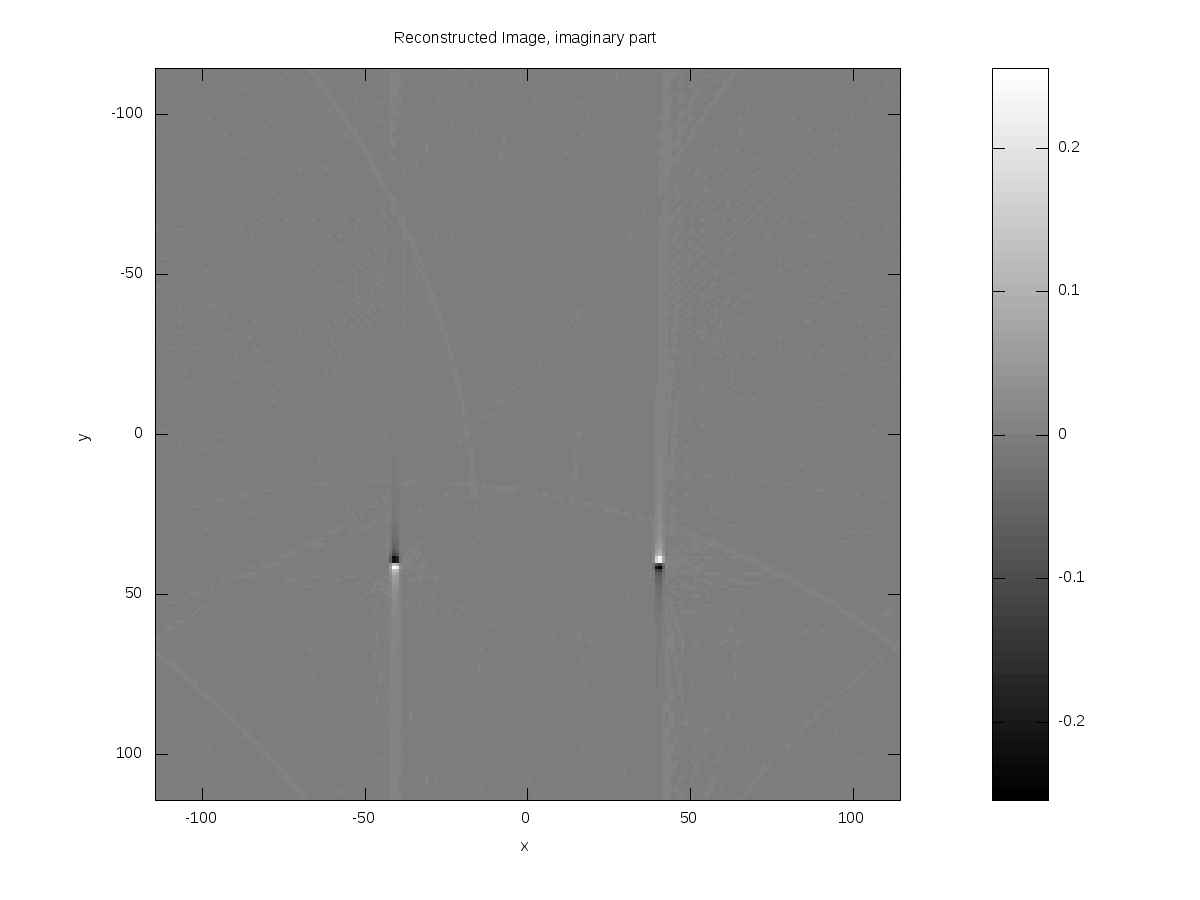
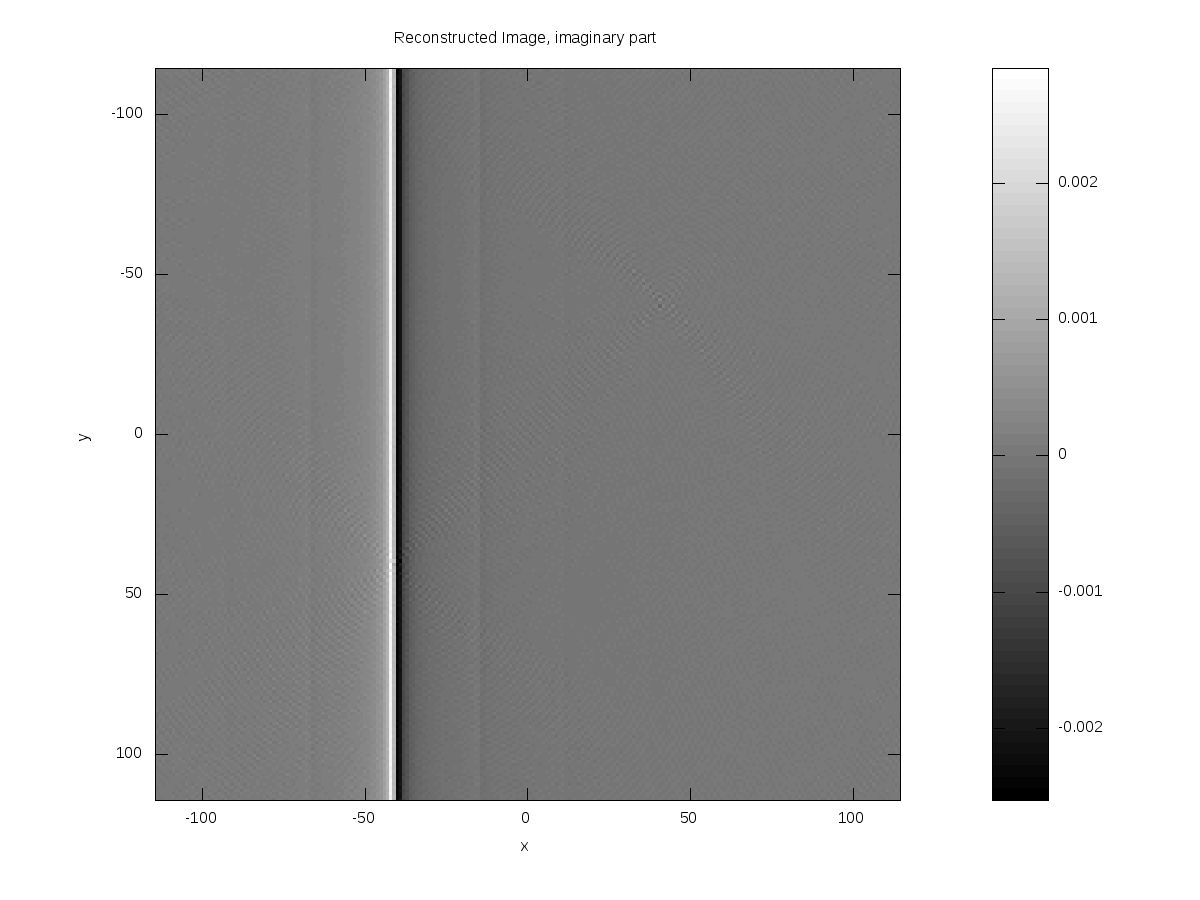
Correct bug in coordinate mapping from (-pi,pi) to (0,180)

Changed region(s): [[0.3083, 0.0622, 0.37, 0.9022], [0.5242, 0.5911, 0.555, 0.6533], [0.8942, 0.1867, 0.925, 0.2178]]

diff --git a/trunk/main.m b/trunk/main.m
@@ -55,6 +55,8 @@ save_image(THETA, omega_s, abs(Fourier_Radon),...
 %% INTERPOLATION: Map slices from polar coordinates to rectangular coordinates
 [Fourier_2D omega_xy] = polar_to_rect(THETA,omega_s,Fourier_Radon,N_image*oversampling_ratio,interp_m,DEBUG);
 
+save_image(omega_xy,omega_xy,abs(Fourier_2D),'Interpolated Fourier Space','omega_x','omega_y')
+
 %%%%%%%%%%%%%%%%%%%%%%%%%%%%%%%%%%%%%%%%%%%%%%%%%%%%%%%%%%%%%%%%%%%%%
 %% INVERSE 2D FOURIER TRANSFORM
 [Reconstructed_image axis_xy_2] = inverse_Fourier_2D(Fourier_2D,omega_xy,DEBUG);

diff --git a/trunk/polar_to_rect.m b/trunk/polar_to_rect.m
@@ -47,7 +47,7 @@ omega_y=omega_x;
 
 % map from {theta,omega_s : [-pi,pi],[0,inf]} to {theta,omega_s : [0, 180],[-inf,inf]}
 OMEGA_SI = OMEGA_SI .* sign(THETA_I);
-THETA_I = abs(THETA_I) * (180/pi);
+THETA_I = mod( THETA_I * (180/pi), 180);
 
 %% Apply interpolation
 % disable extrapolation: everything outside the defined space is set to zero.
